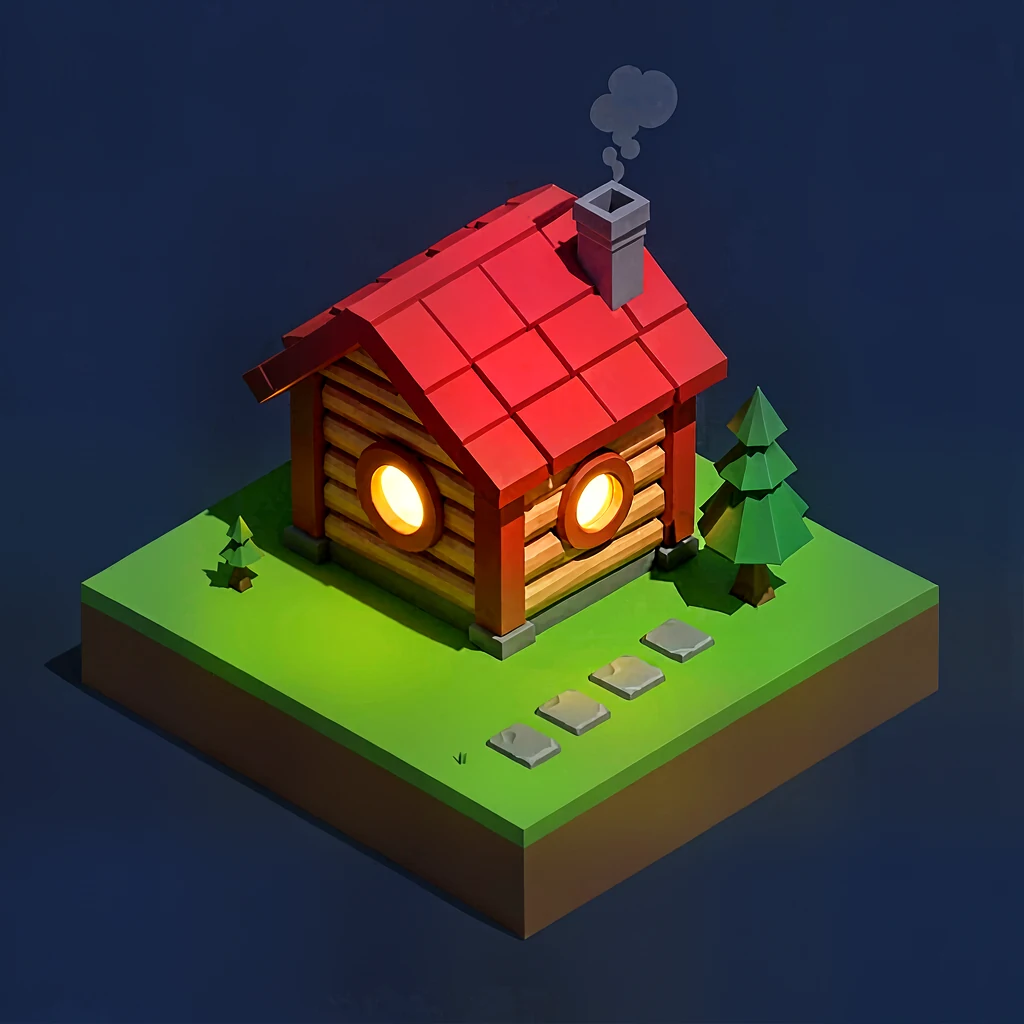
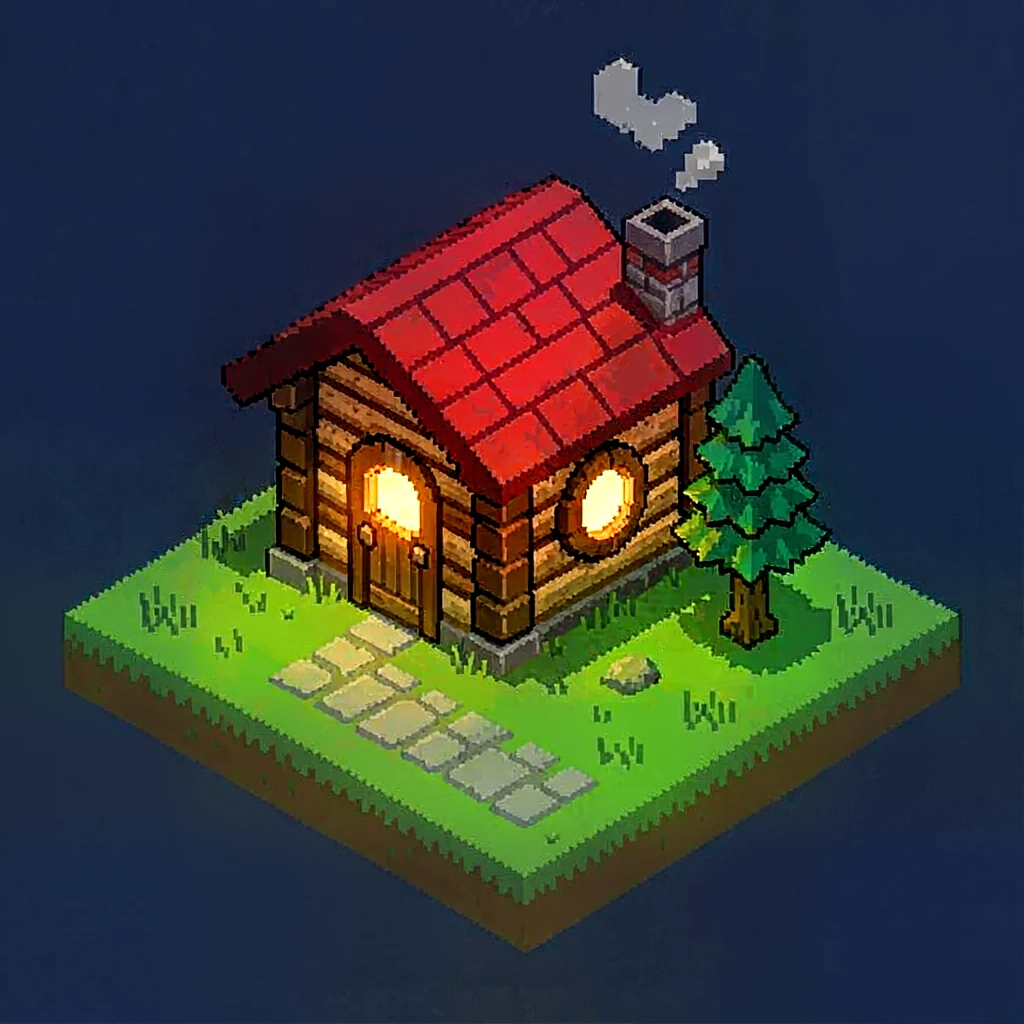
Fix wide recipe validation after runtime reinstalls
Verification receipts were keyed by an mtime-based fingerprint, so every
reinstall (setup.sh, install.py, runtime rebuild) silently invalidated
all receipts and guided recipes above 1024 px failed with a size error.
The fingerprint now hashes file content: byte-identical copies keep
receipts valid, real component updates still invalidate them. Existing
receipts were re-keyed without re-rendering.

Also harden the pixel-isometric recipe toward a visible pixel grid
(8-bit wording, grid constraints, smooth-render exclusions), regenerate
its example with flux-pixel, refresh the stale pixel/lowpoly/studio
Playwright specs for the five-model catalog, and document the receipt
lifecycle in troubleshooting.

diff --git a/studio/tests/pixel.spec.js b/studio/tests/pixel.spec.js
@@ -1,43 +1,44 @@
 import { test, expect } from '@playwright/test';
-test('pixel presets, native exports, palette controls and keyboard access',async({page})=>{
+const ids=['pixel-loot','pixel-character','pixel-isometric','pixel-landscape','pixel-creature','pixel-portrait','pixel-vehicle','pixel-dungeon','pixel-character-sheet','pixel-kart-sheet','pixel-prop-sheet'];
+test('flux-pixel recipes, examples and guided preview',async({page})=>{
  const errors=[];page.on('pageerror',e=>errors.push(e.message));
  const catalog=await(await page.request.get('/studio/api/catalog')).json();
- expect(catalog.models.map(m=>m.id)).toEqual(expect.arrayContaining(['anima','moss','krea-pixel']));
- for(const id of ['pixel-loot','pixel-character','pixel-isometric','pixel-landscape']){
-  const sample=catalog.examples[id];expect(sample.pixel.weights).toBe('dora-v1');
-  const response=await page.request.get(sample.native_url);expect(response.ok()).toBeTruthy();
-  const raw=await response.body();expect(raw.subarray(1,4).toString()).toBe('PNG');
-  expect(raw.readUInt32BE(16)).toBe(sample.pixel.width);expect(raw.readUInt32BE(20)).toBe(sample.pixel.height);
+ expect(catalog.models.map(m=>m.id)).toEqual(expect.arrayContaining(['flux-pixel']));
+ for(const id of ids){const recipe=catalog.recipes.find(r=>r.id===id);expect(recipe.model).toBe('flux-pixel');}
+ for(const id of ids.slice(0,4)){
+  const sample=catalog.examples[id];expect(sample.model).toBe('flux-pixel');expect(sample.size).toBe('1024x1024');expect(sample.steps).toBe(20);
+  expect((await page.request.get(sample.url)).ok()).toBeTruthy();
+  const response=await page.request.post('/studio/api/compose',{data:{...sample.inputs,model:'flux-pixel',quality:sample.quality,seed:sample.seed}});
+  expect((await response.json()).prompt).toBe(sample.prompt);
  }
- await page.goto('/studio/');await page.locator('#recipe-model-filter').selectOption('krea-pixel');
+ await page.goto('/studio/#explore');await page.locator('#recipe-model-filter').selectOption('flux-pixel');
  await expect(page.locator('.recipe-card')).toHaveCount(6);
  await expect(page.locator('#recipe-total')).toHaveText('6 of 11 recipes');
  const open=page.locator('[data-recipe-id="pixel-character"]').getByRole('button',{name:'View example:'});
  await open.focus();await page.keyboard.press('Enter');await expect(page.locator('#recipe-example')).toBeVisible();
- await expect(page.locator('#example-settings')).toContainText('64 × 64 native pixels');
- await expect(page.locator('#example-native')).toBeVisible();
+ await expect(page.locator('#example-settings')).toContainText('1024x1024 · 20 steps · CFG 4 · Seed');
  await page.keyboard.press('Escape');await expect(open).toBeFocused();
  await open.click();await page.locator('#use-preview-example').click();
- await expect(page.locator('#model')).toHaveValue('krea-pixel');
- await expect(page.locator('#pixel-grid')).toHaveValue('64');await expect(page.locator('#pixel-colors')).toHaveValue('24');
- await expect(page.locator('#recipe-quality')).toBeDisabled();
- await expect(page.locator('#recipe-preview')).toContainText('1024x1024 · 8 steps · CFG 1');
- const prepared=await(await page.request.post('/studio/api/compose',{data:{...catalog.examples['pixel-character'].inputs,model:'krea-pixel',quality:'standard',seed:42}})).json();
- expect(prepared.prompt).toBe(catalog.examples['pixel-character'].prompt);
- expect(prepared.prompt).not.toContain('pixel art');
- await page.locator('#pixel-grid').focus();await page.keyboard.press('Home');await page.keyboard.press('Tab');
- await expect(page.locator('#pixel-grid')).toHaveValue('32');await expect(page.locator('#pixel-colors')).toBeFocused();
- await expect(page.locator('#recipe-preview')).toContainText('pixel art');
- await page.locator('#pixel-colors').selectOption('16');await page.locator('#aspect-ratio').selectOption('16:9');
- await expect(page.locator('#format-note')).toContainText('32 × 18 native pixels');
- await expect(page.locator('#recipe-preview')).toContainText('1024x576');
- await page.locator('#recipe').selectOption('pixel-landscape');await expect(page.locator('#pixel-grid')).toHaveValue('128');await expect(page.locator('#pixel-colors')).toHaveValue('32');
- await page.locator('#model').selectOption('anima');await expect(page.locator('#pixel-fields')).toBeHidden();await expect(page.locator('#recipe-quality')).toBeEnabled();
- await expect(page.locator('#recipe-preview')).not.toContainText('Pixel settings');
- await page.locator('#model').selectOption('krea-pixel');await page.locator('#workflow').selectOption('free');await expect(page.locator('#pixel-fields')).toBeVisible();
- await page.setViewportSize({width:390,height:844});expect(await page.evaluate(()=>document.documentElement.scrollWidth<=innerWidth)).toBeTruthy();
+ await expect(page.locator('#model')).toHaveValue('flux-pixel');
+ await expect(page.locator('#recipe')).toHaveValue('pixel-character');
+ await expect(page.locator('#recipe-preview')).toContainText('PXART4');
+ await page.locator('#subject').fill('a small green frog wearing a tiny hat');
+ await expect(page.locator('#recipe-preview')).toContainText('a small green frog wearing a tiny hat');
+ await expect(page.locator('#recipe-preview')).toContainText('20 steps');
+ await page.locator('#recipe-quality').selectOption('preview');
+ await expect(page.locator('#recipe-preview')).toContainText('12 steps');
+ await page.locator('#recipe-quality').selectOption('detail');
+ await expect(page.locator('#recipe-preview')).toContainText('35 steps');
+ await page.locator('#recipe').selectOption('pixel-landscape');
+ await expect(page.locator('#recipe-preview')).toContainText('PXART4');
+ await page.setViewportSize({width:390,height:840});
+ expect(await page.evaluate(()=>document.documentElement.scrollWidth<=innerWidth)).toBeTruthy();
  await page.screenshot({path:'test-results/pixel-mobile.png',fullPage:true});
- await page.goto('/studio/pixel-guide/');await expect(page.getByRole('heading',{name:'Build a little world.'})).toBeVisible();
- await expect(page.locator('.recipe-card')).toHaveCount(4);expect(await page.evaluate(()=>document.documentElement.scrollWidth<=innerWidth)).toBeTruthy();
  expect(errors).toEqual([]);
+});
+test('pixel guide serves the current recipes',async({page})=>{
+ await page.goto('/studio/pixel-guide/');
+ await expect(page.getByRole('heading',{name:'Build a little world.'})).toBeVisible();
+ await expect(page.locator('.recipe-card')).toHaveCount(4);
+ expect(await page.evaluate(()=>document.documentElement.scrollWidth<=innerWidth)).toBeTruthy();
 });

diff --git a/studio/tests/studio.spec.js b/studio/tests/studio.spec.js
@@ -4,10 +4,10 @@ test('guided recipes, photography, low poly, free prompt, guide and mobile layou
  await expect(page.locator('html')).toHaveAttribute('lang','en');
  await expect(page.getByRole('heading',{name:'From idea to image.'})).toBeVisible();
  await expect(page.getByRole('button',{name:'Generate image'})).toBeVisible();
- await expect(page.locator('#model option')).toHaveCount(6);
+ await expect(page.locator('#model option')).toHaveCount(5);
  await expect(page.locator('#model')).toHaveValue('anima');
  await expect(page.locator('#workflow')).toHaveValue('guided');
- await expect(page.locator('#recipe option')).toHaveCount(82);
+ await expect(page.locator('#recipe option')).toHaveCount(72);
  await expect(page.locator('#aspect-ratio option')).toHaveCount(8);
  await expect(page.locator('#recipe optgroup[label="MOSS · realistic photography"] option')).toHaveCount(9);
  await expect(page.locator('#recipe option:checked')).toHaveText('Cinematic character portrait');

diff --git a/studio/tests/lowpoly.spec.js b/studio/tests/lowpoly.spec.js
@@ -2,7 +2,7 @@ import { test, expect } from '@playwright/test';
 test('MOSS supplies all low-poly presets while retired Anima styles disappear',async({page})=>{
  const errors=[];page.on('pageerror',e=>errors.push(e.message));
  const catalog=await(await page.request.get('/studio/api/catalog')).json();
- expect(catalog.models.map(m=>m.id)).toEqual(['moss','anima','krea-pixel','z-image','z-image-turbo']);
+ expect(catalog.models.map(m=>m.id)).toEqual(['moss','anima','flux-pixel','z-image','z-image-turbo']);
  expect(catalog.recipes).toHaveLength(72);
  const recipes=catalog.recipes.filter(r=>r.category==='lowpoly');expect(recipes).toHaveLength(12);
  for(const recipe of recipes){

diff --git a/src/recipes.py b/src/recipes.py
@@ -256,8 +256,9 @@ PIXEL_RECIPES = [
          description='A miniature pixel isometric building with tidy forms and cozy details.',
          example=dict(subject='a tiny timber cabin with a red roof and a glowing round window',scene='on one small grassy isometric tile against a dark blue background',details='a stone path, one pine tree, a chimney with a small puff of smoke'),
          scene='on one small grassy isometric tile against a dark blue background',
-         style='retro isometric game asset, crisp square clusters, limited color palette',
-         composition='Show the complete miniature structure from an elevated three-quarter view on one isolated square ground tile. Consistent isometric perspective, clear roof and walls, simple grouped shadows. No lettering or interface.',
+         style='8-bit isometric pixel art game asset, chunky visible square pixels, hard-edged flat color blocks, limited color palette',
+         composition='Show the complete miniature structure as a 2D pixel art sprite drawn on a coarse pixel grid, viewed from an elevated three-quarter angle on one isolated square ground tile. Every edge snaps to the grid; shading uses a few flat color steps. No lettering or interface.',
+         negative_extra='3d render, low poly, smooth gradients, soft shading, glossy surfaces, anti-aliasing',
          tip='One building, one ground tile and two or three props work best.'),
     dict(id='pixel-landscape',name='Pixel · scenic world',
          description='A detailed pixel scene with layered scenery and a restrained palette.',

diff --git a/src/studio_service.py b/src/studio_service.py
@@ -207,10 +207,21 @@ class Studio:
         return path
 
     def fingerprint(self, model):
-        # Receipts are tied to runtime and the exact local component files.
+        # Receipts are tied to the runtime and the exact local component files.
+        # Content, not mtime, decides: copying byte-identical files during a
+        # reinstall keeps verification valid; real updates change it.
         paths = [self.backend.cfg['runtime'], *self.backend.cfg['models'].get(model, {}).values()]
         try:
-            return hashlib.sha256(json.dumps([(p, Path(p).stat().st_size, Path(p).stat().st_mtime_ns) for p in paths]).encode()).hexdigest()
+            marker = []
+            for p in paths:
+                size = Path(p).stat().st_size
+                with Path(p).open('rb') as stream:
+                    head = stream.read(4096)
+                    if size > 8192:
+                        stream.seek(-4096, os.SEEK_END)
+                        head += stream.read(4096)
+                marker.append((p, size, hashlib.sha256(head).hexdigest()))
+            return hashlib.sha256(json.dumps(marker).encode()).hexdigest()
         except OSError:
             return ''
 

diff --git a/skills/local-image-ai/references/catalog.md b/skills/local-image-ai/references/catalog.md
@@ -83,10 +83,10 @@ Generated from the service catalog at installation/package time. Query the live 
 
 | ID | Preset | Purpose |
 | --- | --- | --- |
-| `pixel-loot` | Pixel · tiny loot icon | A bold 32-pixel inventory icon with a simple silhouette and a small palette. |
-| `pixel-character` | Pixel · adventure character | A complete 64-pixel game character with readable clothing and pose. |
-| `pixel-isometric` | Pixel · isometric hideaway | A miniature 64-pixel isometric building with tidy forms and cozy details. |
-| `pixel-landscape` | Pixel · scenic world | A detailed 128-pixel scene with layered scenery and a restrained palette. |
+| `pixel-loot` | Pixel · tiny loot icon | A bold pixel inventory icon with a simple silhouette and a small palette. |
+| `pixel-character` | Pixel · adventure character | A complete pixel game character with readable clothing and pose. |
+| `pixel-isometric` | Pixel · isometric hideaway | A miniature pixel isometric building with tidy forms and cozy details. |
+| `pixel-landscape` | Pixel · scenic world | A detailed pixel scene with layered scenery and a restrained palette. |
 | `pixel-creature` | Pixel · creature sprite | One complete game creature with grouped shading and an expressive silhouette. |
 | `pixel-portrait` | Pixel · dialogue portrait | A readable character bust suitable as a starting point for a game dialogue portrait. |
 | `pixel-vehicle` | Pixel · tiny vehicle | One small vehicle with clear wheels, readable bodywork and a simple background. |

diff --git a/docs/troubleshooting.md b/docs/troubleshooting.md
@@ -52,6 +52,23 @@ The separate runtime needs the three CUDA libraries recorded in `runtime/receipt
 `cuda_lib` must point to its own absolute library directory. The previous installation is not
 used as a runtime fallback. `doctor` must report CUDA0; CPU fallback is not silent.
 
+## Wide recipe sizes fail after a runtime rebuild
+
+Recipes wider or taller than 1024 px (for example `1216x832` and `832x1216`) are only accepted
+for a model whose verification receipt matches the current runtime fingerprint, so compose can
+answer `size: dimensions must be multiples of 64 between 256 and 1024`. Reinstalling the runtime
+(`scripts/setup.sh`, `scripts/install-runtime.py` or a source rebuild) changes that fingerprint
+and invalidates every receipt. Refresh them with one real render per model on the GPU:
+
+```bash
+local-image-ai-service stop
+python3 scripts/verify-recipes.py --only lowpoly-world photo-portrait anima-portrait
+python3 scripts/verify-formats.py            # optional: dropdown formats too
+local-image-ai-service start
+```
+
+`verification.json` lives with the image library and survives reinstalls; the fingerprint decides.
+
 ## HTTP 404, 409, 429, or 504
 
 404 `model_not_found`: choose an installed curated model from `local-image-ai-service models`; the five supported IDs are `moss`, `anima`, `flux-pixel`, `z-image` and `z-image-turbo`.
